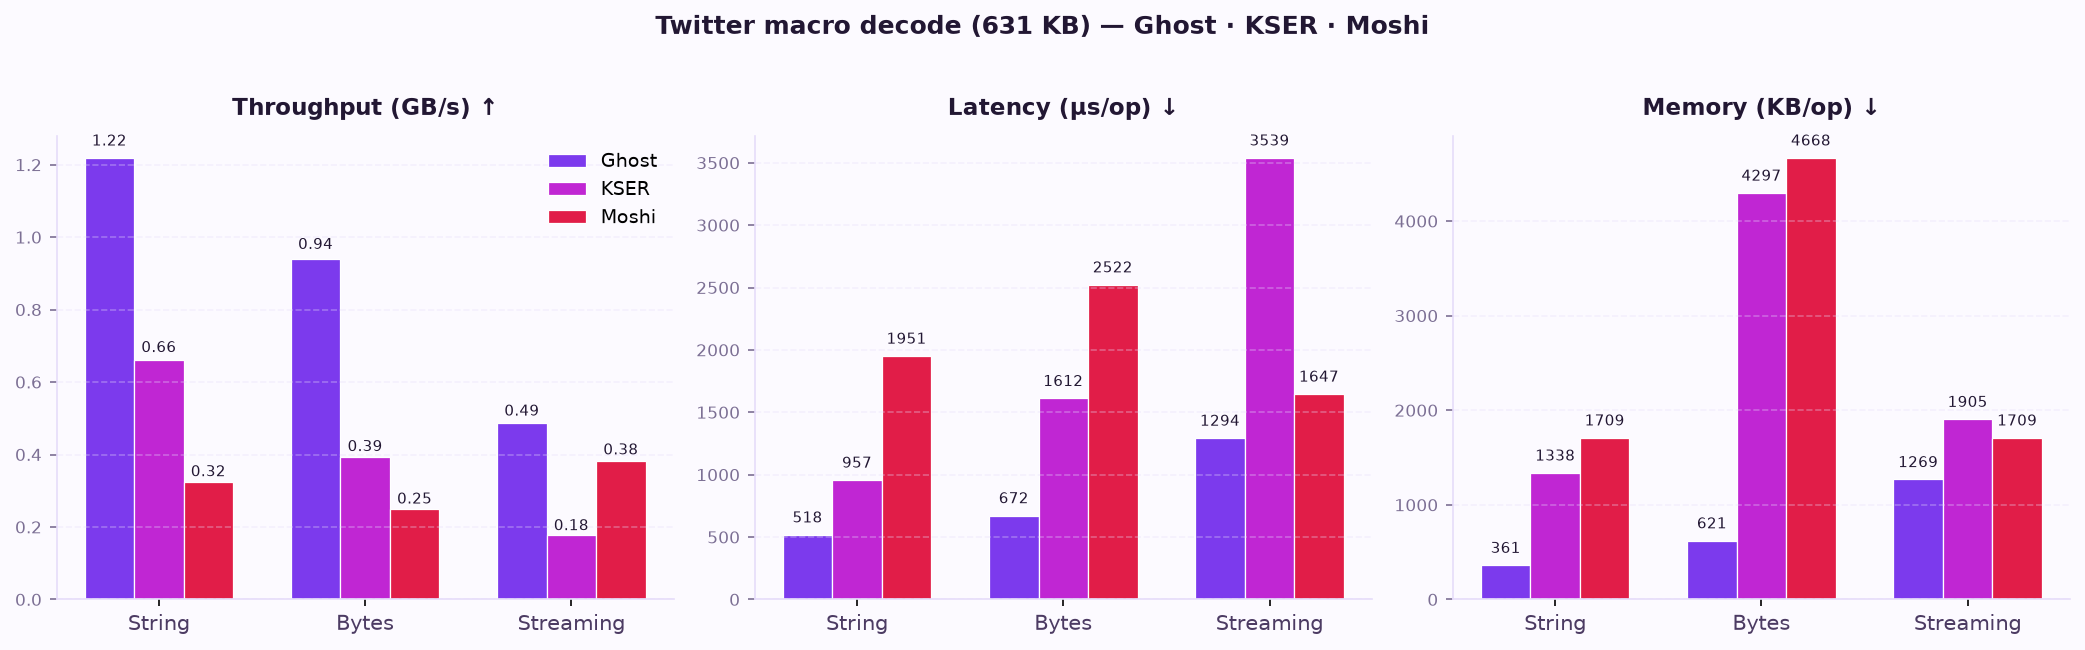
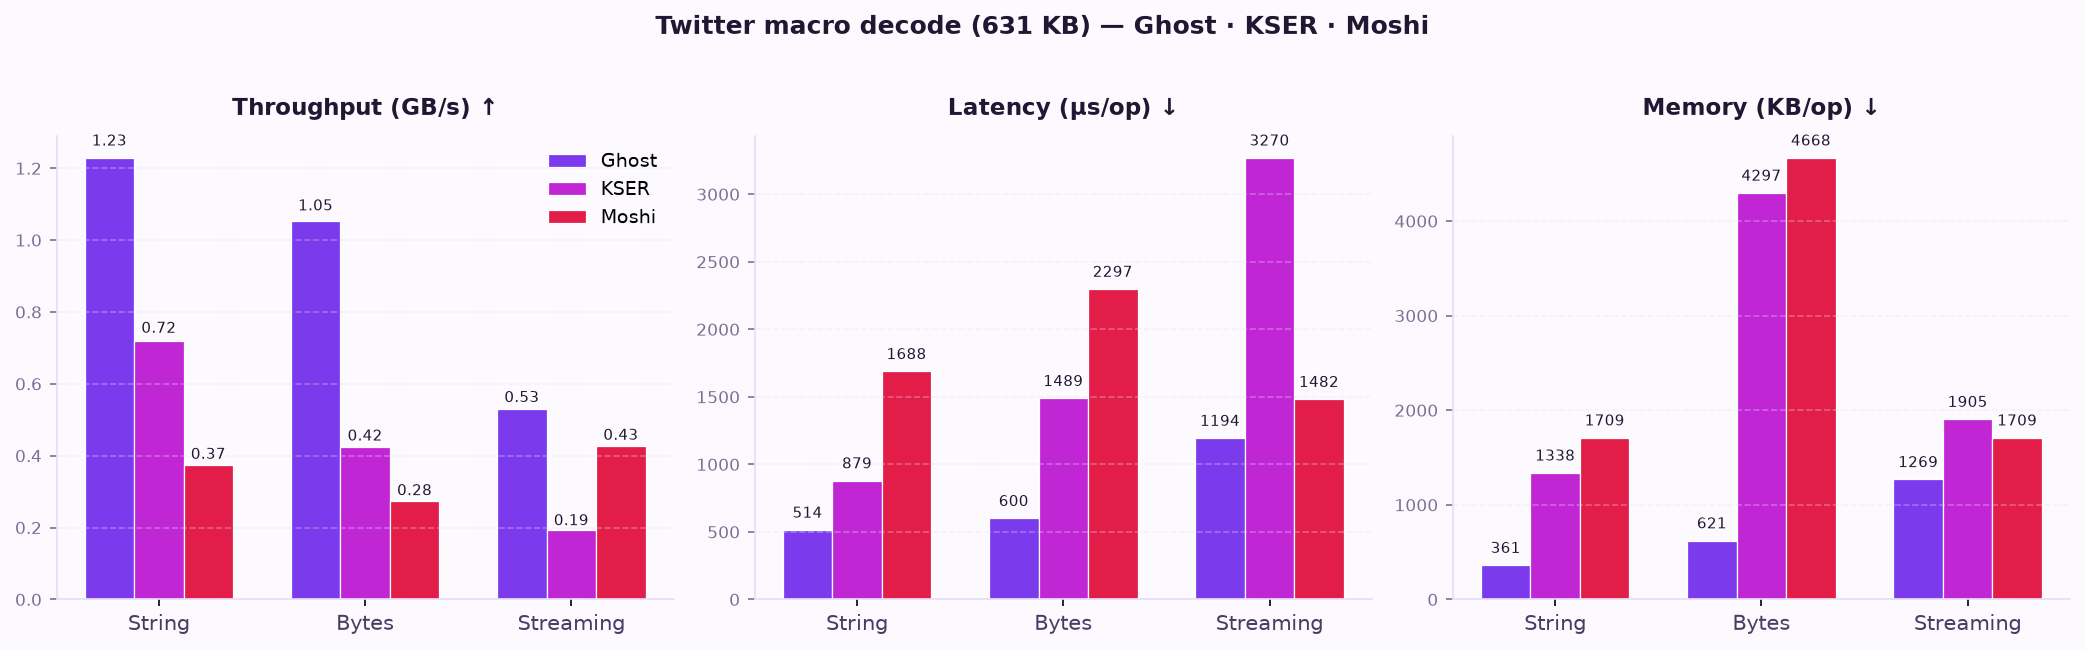
fix(benchmark): latency-only stress tables and refresh Twitter docs
Show deep nesting and malformed JSON as µs/op only, update README/wiki decode numbers, and regenerate the throughput chart.

diff --git a/ghost-benchmark/src/main/kotlin/com/ghost/benchmark/GhostBenchmark.kt b/ghost-benchmark/src/main/kotlin/com/ghost/benchmark/GhostBenchmark.kt
@@ -495,15 +495,15 @@ internal fun printFinalResults(finalResults: BenchmarkSessionResults, payloads: 
         finalResults.writing,
         payloadBytes = payloads.writingBytes.size.toLong(),
     )
-    printRankedTable(
-        "STRESS TEST: DEEP NESTING (20 Levels)$titleSuffix",
-        finalResults.stress.nesting,
-        payloadBytes = payloads.stressTreeBytes.size.toLong(),
+    printMicroLatencyTable(
+        title = "STRESS TEST: DEEP NESTING (20 Levels)",
+        subtitle = "Single-shot parse per engine after synthetic suite (632 B payload)",
+        metrics = finalResults.stress.nesting,
     )
-    printRankedTable(
-        "FAILURE RESILIENCE (Malformed JSON)$titleSuffix",
-        finalResults.failure,
-        payloadBytes = payloads.failureBytes.size.toLong(),
+    printMicroLatencyTable(
+        title = "FAILURE RESILIENCE (Malformed JSON)",
+        subtitle = "Average of 100 failed parses per engine (2 581 B payload)",
+        metrics = finalResults.failure,
     )
 }
 
@@ -567,6 +567,47 @@ private fun printColdStartTable(title: String, metrics: BenchmarkMetrics) {
             latencyReduction
         )
     )
+}
+
+/**
+ * Micro-benchmarks (deep nesting, malformed JSON) measure per-op latency on tiny payloads.
+ * GB/s would be misleading at this scale (same rationale as [printColdStartTable]); allocation
+ * is not measured here either.
+ */
+private fun printMicroLatencyTable(
+    title: String,
+    subtitle: String,
+    metrics: BenchmarkMetrics,
+) {
+    println("\n========================================================")
+    println("BENCHMARK: $title")
+    println("========================================================")
+    println("  $subtitle → latency only (µs/op)")
+
+    val rankings = engineRankings(metrics).sortedBy { it.nanos }
+    println("| RANK | ENGINE   | Latency (µs/op) |")
+    println("|------|----------|-----------------|")
+    rankings.forEachIndexed { index, rank ->
+        println(
+            "| %-4d | %-8s | %15.1f |".format(
+                index + 1,
+                rank.name,
+                BenchmarkThroughput.nanosToMicros(rank.nanos),
+            )
+        )
+    }
+
+    val winner = rankings.first()
+    val slowest = rankings.last()
+    if (winner.nanos > 0 && slowest.nanos > 0) {
+        val latencyReduction =
+            ((slowest.nanos.toDouble() - winner.nanos.toDouble()) / slowest.nanos.toDouble()) * 100.0
+        println(
+            "   WINNER: ${winner.name} (%.1f%% lower latency than ${slowest.name})".format(
+                latencyReduction
+            )
+        )
+    }
 }
 
 /**

diff --git a/docs/wiki/benchmarks.md b/docs/wiki/benchmarks.md
@@ -2,7 +2,7 @@
 
 [![Speed](https://img.shields.io/badge/Speed-red.png?style=flat&logo=speedtest&logoColor=white)](benchmarks.md)
 
-> **Methodology**: Independent Gradle JVM tasks (`benchmarkTwitter`, `benchmarkSynthetic`, …). Engines: **Ghost, KSER, Moshi (codegen adapters)**. **10 000-iteration warmup**, **500 sessions × 50 batched samples**. Per session: **Ghost+KSER measured first** (back-to-back), then Moshi. Throughput tables report **decimal GB/s** (`payload_bytes / seconds / 10⁹`, equivalent to `ops/s × payload / 10⁹`). Regression uses **median** of per-session Ghost÷KSER ratios. LIST / SYNC / WRITING suites isolated with phase GC only.
+> **Methodology**: Independent Gradle JVM tasks (`benchmarkTwitter`, `benchmarkSynthetic`, …). Engines: **Ghost, KSER, Moshi (codegen adapters)**. **10 000-iteration warmup**, **500 sessions × 50 batched samples** on LIST / SYNC / WRITING. Per session: **Ghost+KSER measured first** (back-to-back), then Moshi. Throughput tables report **decimal GB/s** (`payload_bytes / seconds / 10⁹`, equivalent to `ops/s × payload / 10⁹`). Stress tests report **latency only** (single-shot or 100-iteration avg). Regression uses **median** of per-session Ghost÷KSER ratios. LIST / SYNC / WRITING suites isolated with phase GC only.
 >
 > **`ghost.textChannel`**: default **true** per model. String benchmarks use the generated `GhostJsonStringReader` / string writer; byte and streaming benchmarks use their dedicated readers. Byte-only applications can opt out with `@GhostSerialization(textChannel = false)` or the module flag `ghost.textChannel=false` to reduce generated code size. See [Native String Reader](advanced-features.md#5-native-string-reader-textchannel).
 
@@ -62,24 +62,24 @@ Results on [twitter_macro.json](../../ghost-benchmark/src/main/resources/twitter
 
 | Operation | Engine | Throughput (GB/s) | Latency (µs/op) | Allocation (KB/op) |
 |:---|:---:|---:|---:|---:|
-| **Decode (String)** | **👻 Ghost** | **1.036** 🏆 *(+57.0% vs KSER)* | **609.3** ⏱ | **361.2** 💾 *(-73.0%)* |
-| | KSER | 0.660 | 957.2 | 1337.6 |
-| | Moshi | 0.324 | 1951.2 | 1708.9 |
-| **Decode (Bytes)** | **👻 Ghost** | **0.939** 🏆 *(+139.5% vs KSER)* | **672.4** ⏱ | **621.2** 💾 *(-85.5%)* |
-| | KSER | 0.392 | 1611.8 | 4297.0 |
-| | Moshi | 0.250 | 2522.5 | 4668.4 |
-| **Decode (Streaming)** | **👻 Ghost** | **0.488** 🏆 *(+174.2% vs KSER)* | **1293.6** ⏱ | **1268.6** 💾 *(-33.4%)* |
-| | KSER | 0.178 | 3539.4 | 1904.9 |
-| | Moshi | 0.383 | 1646.9 | 1708.8 |
-| **Encode (String)** | **👻 Ghost** | **2.413** 🏆 *(+48.6% vs KSER)* | **262.0** ⏱ | 1074.0 |
-| | KSER | 1.624 | 389.0 | **972.0** 💾 |
-| | Moshi | 0.454 | 1392.0 | 2893.0 |
-| **Encode (Bytes)** | **👻 Ghost** | **1.464** 🏆 *(+101.4% vs KSER)* | **431.0** ⏱ | **420.0** 💾 *(-81.0%)* |
-| | KSER | 0.727 | 869.0 | 2207.0 |
-| | Moshi | 0.313 | 2019.0 | 4387.0 |
-| **Encode (Streaming)** | **👻 Ghost** | **1.442** 🏆 *(+78.9% vs KSER)* | **438.0** ⏱ | **427.0** 💾 *(-6.2%)* |
-| | KSER | 0.806 | 784.0 | 455.0 |
-| | Moshi | 0.665 | 949.0 | 561.0 |
+| **Decode (String)** | **👻 Ghost** | **1.229** 🏆 *(+71.2% vs KSER)* | **514.0** ⏱ | **361.1** 💾 *(-73.0%)* |
+| | KSER | 0.718 | 879.2 | 1337.6 |
+| | Moshi | 0.374 | 1688.2 | 1708.9 |
+| **Decode (Bytes)** | **👻 Ghost** | **1.052** 🏆 *(+148.1% vs KSER)* | **600.2** ⏱ | **621.2** 💾 *(-85.5%)* |
+| | KSER | 0.424 | 1488.6 | 4297.0 |
+| | Moshi | 0.275 | 2297.4 | 4668.4 |
+| **Decode (Streaming)** | **👻 Ghost** | **0.529** 🏆 *(+174.1% vs KSER)* | **1193.7** ⏱ | **1268.6** 💾 *(-33.4%)* |
+| | KSER | 0.193 | 3269.5 | 1904.9 |
+| | Moshi | 0.426 | 1481.9 | 1708.8 |
+| **Encode (String)** | **👻 Ghost** | **2.807** 🏆 *(+41.9% vs KSER)* | **225.0** ⏱ | 1074.3 |
+| | KSER | 1.978 | 319.3 | **981.6** 💾 |
+| | Moshi | 0.515 | 1226.8 | 2893.0 |
+| **Encode (Bytes)** | **👻 Ghost** | **1.514** 🏆 *(+97.1% vs KSER)* | **417.0** ⏱ | **420.2** 💾 *(-81.0%)* |
+| | KSER | 0.768 | 822.7 | 2216.3 |
+| | Moshi | 0.346 | 1822.7 | 4387.4 |
+| **Encode (Streaming)** | **👻 Ghost** | **1.502** 🏆 *(+46.8% vs KSER)* | **420.5** ⏱ | **426.9** 💾 *(-8.1%)* |
+| | KSER | 1.023 | 617.3 | 464.5 |
+| | Moshi | 0.798 | 791.1 | 560.5 |
 
 ---
 
@@ -121,12 +121,12 @@ Payload sizes used for the conversion: LIST_MEDIUM **15 622 B**, SYNC_FULL_LAR
 
 ## Stress Tests
 
-Fixed column order: **Ghost → KSER → Moshi**. Each cell reads **GB/s · µs/op** (Deep Nesting payload **632 B**, Malformed **2 581 B**). **🏆** = highest GB/s · **⏱** = lowest latency.
+Latency-only micro-benchmarks on tiny payloads (GB/s is omitted — it would be misleading at this scale). Deep nesting: **single-shot** parse per engine (**632 B**). Malformed JSON: **average of 100** failed parses per engine (**2 581 B**). Allocation is not measured. **⏱** = lowest latency.
 
 | Test | Ghost | KSer | Moshi |
 |:---|:---:|:---:|:---:|
-| Deep Nesting — 20 levels | 0.004 · 153.2 | **0.006 · 97.9** 🏆⏱ | 0.006 · 113.8 |
-| Malformed JSON — resilience | **0.059 · 43.4** 🏆⏱ | 0.030 · 86.3 | 0.038 · 68.5 |
+| Deep Nesting — 20 levels | 171.7 | 112.2 | **107.8** ⏱ |
+| Malformed JSON — resilience | **42.1** ⏱ | 68.5 | 64.6 |
 
 ---
 

diff --git a/README.md b/README.md
@@ -51,13 +51,13 @@ Twitter macro fixture (**631 KB**). Three views of the same decode run — throu
 
 | | Ghost | KSER | Moshi | Ghost vs slowest |
 |:---|---:|---:|---:|:---|
-| Decode string | **1.2 GB/s** · 518 µs · 361 KB | 0.713 GB/s · 886 µs · 1338 KB | 0.324 GB/s · 1951 µs · 1709 KB | **~3.8× faster** · **79% less memory** |
-| Decode bytes | **0.939 GB/s** · 672 µs · 621 KB | 0.392 GB/s · 1612 µs · 4297 KB | 0.250 GB/s · 2523 µs · 4668 KB | **~3.8× faster** · **87% less memory** |
-| Decode streaming | **0.488 GB/s** · 1294 µs · 1269 KB | 0.178 GB/s · 3539 µs · 1905 KB | 0.383 GB/s · 1647 µs · 1709 KB | **~2.7× faster** · **33% less memory** |
+| Decode string | **1.2 GB/s** · 514 µs · 361 KB | 0.718 GB/s · 879 µs · 1338 KB | 0.374 GB/s · 1688 µs · 1709 KB | **~3.3× faster** · **79% less memory** |
+| Decode bytes | **1.05 GB/s** · 600 µs · 621 KB | 0.424 GB/s · 1489 µs · 4297 KB | 0.275 GB/s · 2297 µs · 4668 KB | **~3.8× faster** · **87% less memory** |
+| Decode streaming | **0.53 GB/s** · 1194 µs · 1269 KB | 0.193 GB/s · 3270 µs · 1905 KB | 0.426 GB/s · 1482 µs · 1709 KB | **~2.7× faster** · **33% less memory** |
 
 Full tables + how to run them → **[Benchmarks](docs/wiki/benchmarks.md)** · also [`ktor-ghost`](https://www.http-arena.com/#sort=rps:-1&q=kotlin) on HTTP Arena (+14% vs plain Ktor).
 
-> Machine- and workload-dependent. Measure your own models before migrating a path.
+> **Host:** `./gradlew :ghost-benchmark:benchmarkTwitter -PskipTests` (full profile, 10 000-iteration warmup) on **Ubuntu 24.04 (Linux x86_64)** · **AMD Ryzen 9 7900X** (12 cores / 24 threads, up to ~5.7 GHz boost) · **64 GB RAM** · **Eclipse Temurin JDK 17** (Gradle `jvmToolchain(17)`) · Kotlin **2.4.0**. Absolute GB/s varies by machine; relative Ghost vs KSER/Moshi rankings are what the regression gate tracks.
 
 
 ---
